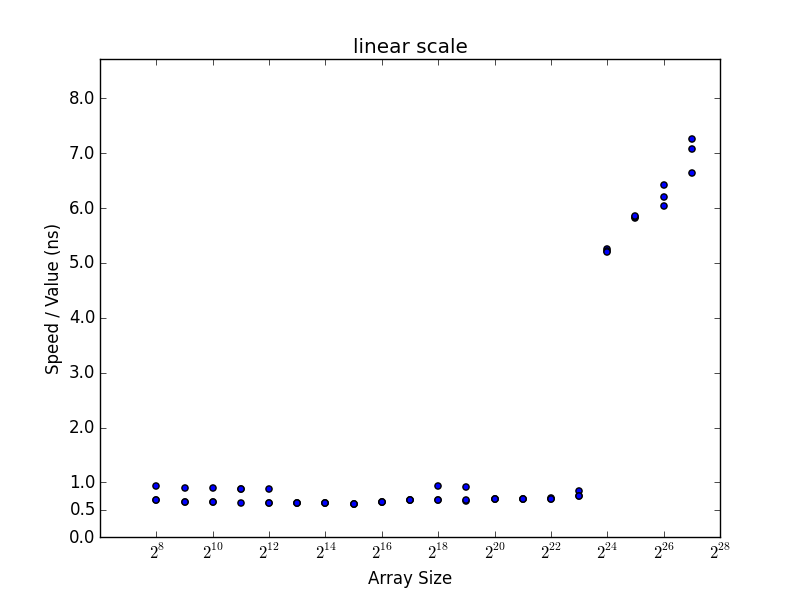
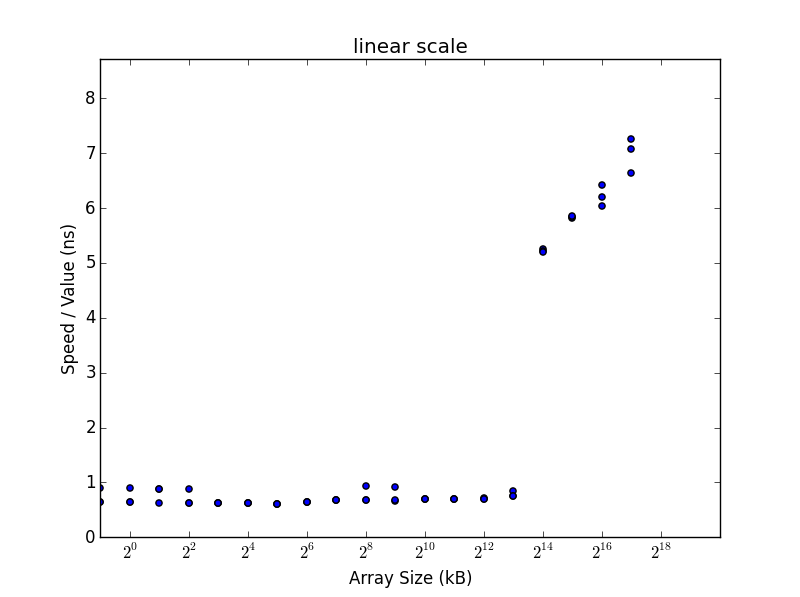
Changed graph labels

diff --git a/plot.py b/plot.py
@@ -12,22 +12,24 @@ def getColumn(filename, column):
 def getHeader(filename):
     header = open(filename, 'r')
     return header.readline()
-    
+
+def normalize(i):
+        return i - 10
     
 def plot(filename):
     x = map(float,getColumn(filename,0))
+    x = map(normalize,x)
     y = map(float,getColumn(filename,2))
     length = len(x)
     colors = ['red', 'green', 'blue']
     plt.figure(getHeader(filename))
-    plt.title('log scale')
-    plt.xlabel("Array Size")
+    plt.title('linear scale')
+    plt.xlabel("Array Size (kB)")
     plt.ylabel("Speed / Value (ns)")
     plt.ylim((min(y)*1.2,max(y)*1.2))
-    plt.xlim((6,30))
-    plt.xticks(range(8,30,2), [r"$2^{ " + str(i) + "}$" for i in range(8,30,2)])
-    plt.yscale('symlog')
-    ticks = [.1,1,2,4,6,8,10,20,40,80,100]
+    plt.xlim((-1,20))
+    plt.xticks(range(0,20,2), [r"$2^{ " + str(i) + "}$" for i in range(0,20,2)])
+    ticks = [0,1,2,3,4,5,6,7,8]
     plt.yticks(ticks, map(str,ticks))
     plt.scatter(x, y)
 
